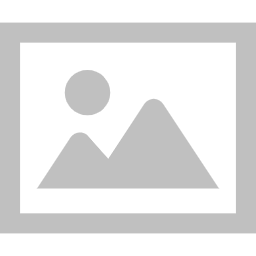
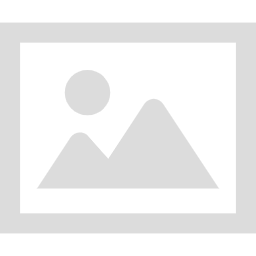
見やすくするため、プレビューなし背景画像を薄いものに変更

diff --git a/app/controllers/posts_controller.rb b/app/controllers/posts_controller.rb
@@ -11,7 +11,6 @@ class PostsController < ApplicationController
   end
 
   def new
-    @user = User.find_by(name: params[:name])
     @post = Post.new
     @post.photos.build
   end
